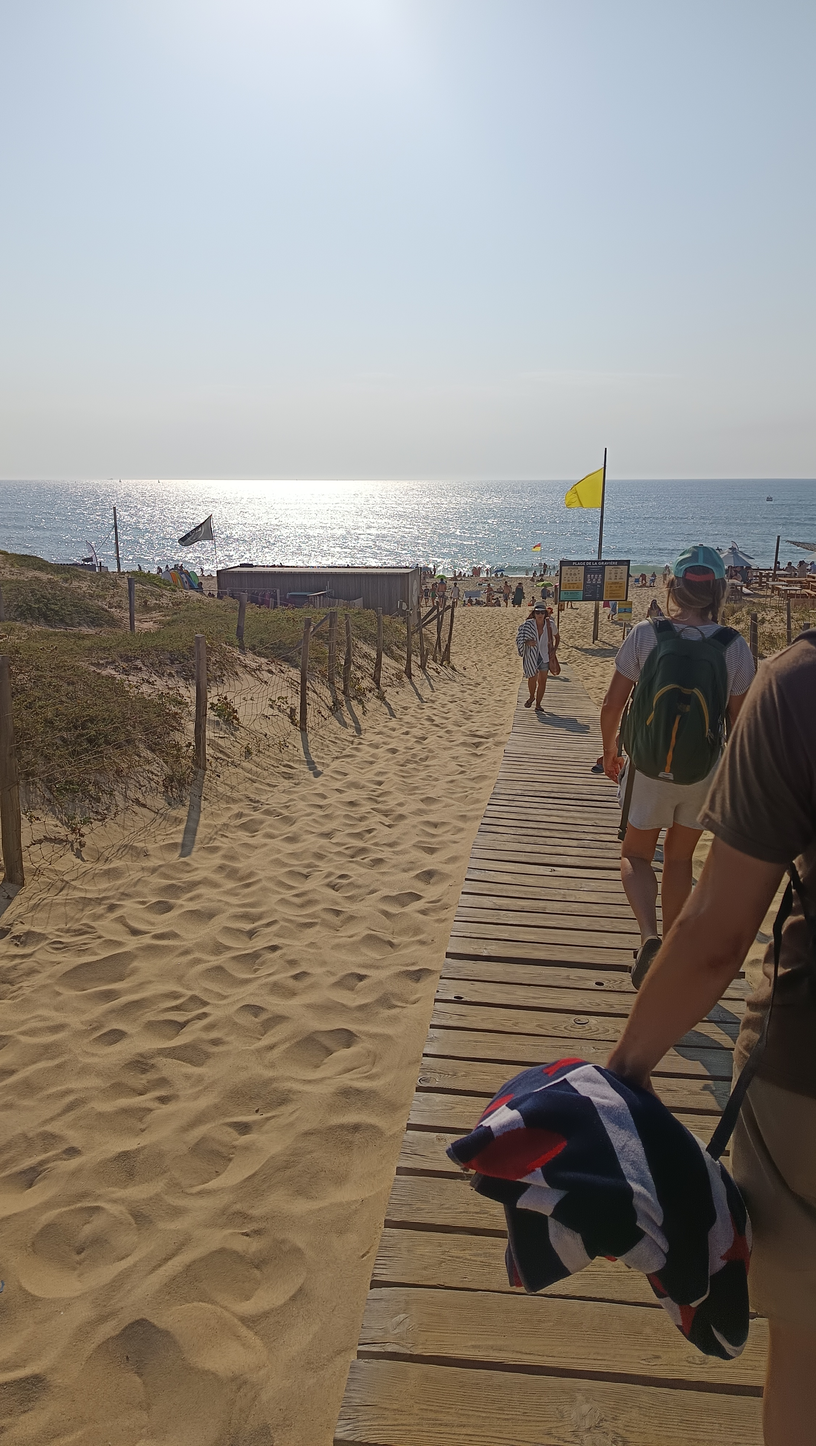
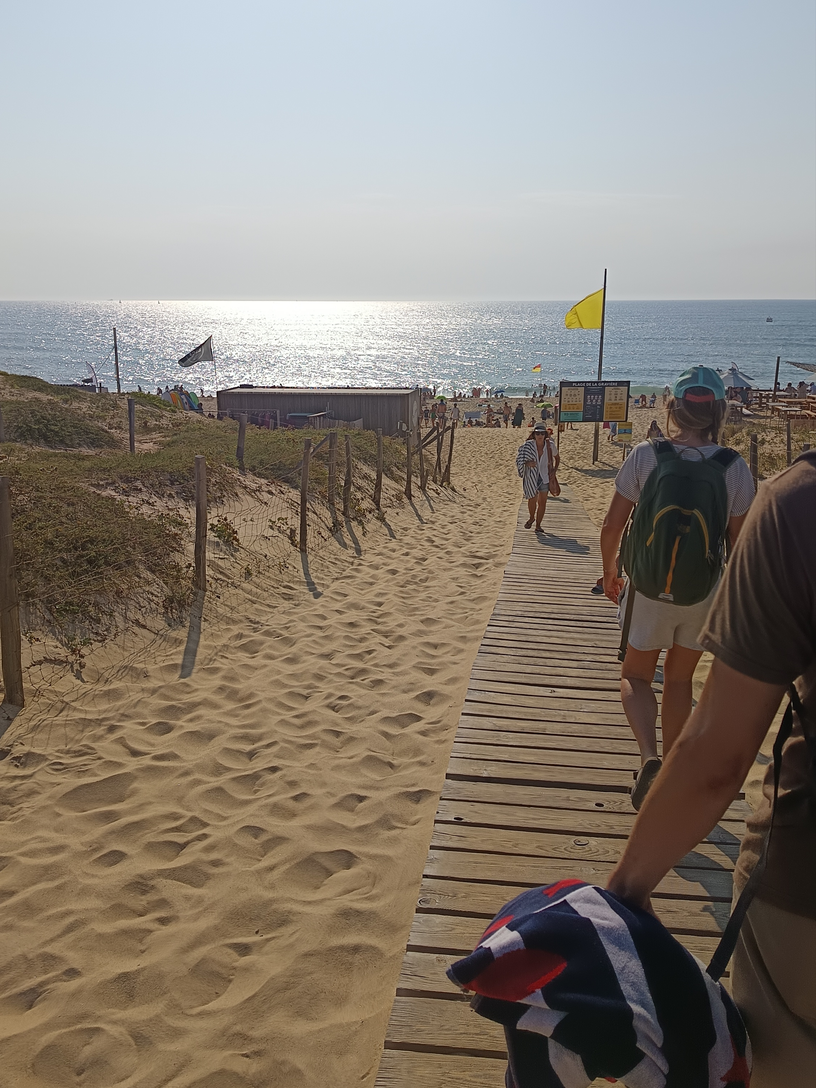
image arrange

diff --git a/a3/style.css b/a3/style.css
@@ -54,10 +54,10 @@ h2 {
 }
 
 img {
-    width: 500px;
+    width: 300px;
     max-width: 35%;
     border-radius: 10px;
-    display: block;
+    display: flexbox;
     margin: 20px auto;
 }
 
